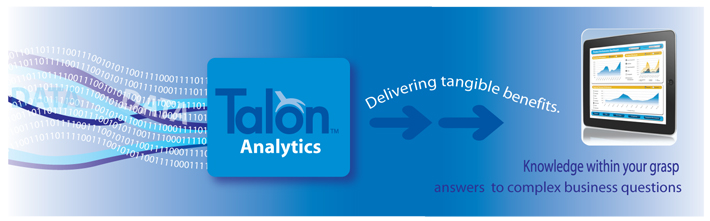
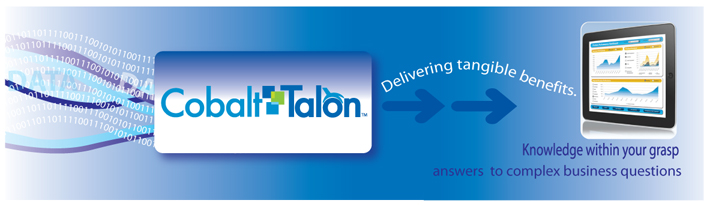
last minute chages

diff --git a/css/style.css b/css/style.css
@@ -1735,26 +1735,32 @@ ul.acc_text {
 .side_slider a {
   text-decoration: none;
 }
+/* line 534, ../src/style.scss */
+.side_slider a span {
+  font-size: 15px;
+  color: #1a9fff;
+  font-style: italic;
+}
 
-/* line 539, ../src/style.scss */
+/* line 544, ../src/style.scss */
 .action {
   border-top: 1px solid #666;
   margin-top: 25px;
   padding-top: 15px;
   text-align: center;
 }
-/* line 544, ../src/style.scss */
+/* line 549, ../src/style.scss */
 .action img {
   border: 1px solid #313131;
   width: 156px;
 }
-/* line 548, ../src/style.scss */
+/* line 553, ../src/style.scss */
 .action h4 {
   color: #0068b3;
   font-size: 1.3em;
 }
 
-/* line 553, ../src/style.scss */
+/* line 558, ../src/style.scss */
 .fancy {
   text-align: center;
   -moz-border-radius: 5px;
@@ -1828,7 +1834,7 @@ ul.acc_text {
   color: #222222;
 }
 
-/* line 557, ../src/style.scss */
+/* line 562, ../src/style.scss */
 .fancy-blue {
   text-align: center;
   -moz-border-radius: 5px;
@@ -1904,45 +1910,45 @@ ul.acc_text {
   color: white;
 }
 
-/* line 567, ../src/style.scss */
+/* line 572, ../src/style.scss */
 .products h3 {
   border-bottom: 1px solid #ccc;
   padding-bottom: 3px;
 }
-/* line 571, ../src/style.scss */
+/* line 576, ../src/style.scss */
 .products .method {
   float: right;
   margin-left: 15px;
 }
-/* line 577, ../src/style.scss */
+/* line 582, ../src/style.scss */
 .products .healthcare_payer .products_suite li {
   display: block;
   float: left;
   width: 36%;
   margin: 5px 0;
 }
-/* line 583, ../src/style.scss */
+/* line 588, ../src/style.scss */
 .products .healthcare_payer .products_suite li a {
   text-decoration: none;
   font-size: 14px;
 }
-/* line 587, ../src/style.scss */
+/* line 592, ../src/style.scss */
 .products .healthcare_payer .products_suite li img {
   float: left;
   margin-right: 15px;
 }
-/* line 595, ../src/style.scss */
+/* line 600, ../src/style.scss */
 .products .healthcare_payer h4 {
   clear: left;
 }
-/* line 597, ../src/style.scss */
+/* line 602, ../src/style.scss */
 .products .healthcare_payer h4 a {
   display: block;
   border-bottom: 1px solid #71cef5;
   width: 80%;
   padding-bottom: 5px;
 }
-/* line 603, ../src/style.scss */
+/* line 608, ../src/style.scss */
 .products .healthcare_payer h4 span {
   background: #0068b3;
   -moz-border-radius-topleft: 10px;
@@ -1961,19 +1967,19 @@ ul.acc_text {
   padding: 5px 15px;
 }
 
-/* line 615, ../src/style.scss */
+/* line 620, ../src/style.scss */
 .spacer {
   padding: 5px;
   clear: both;
 }
 
-/* line 620, ../src/style.scss */
+/* line 625, ../src/style.scss */
 .talon_key {
   float: right;
-  width: 150px;
+  width: 210px;
 }
 
-/* line 625, ../src/style.scss */
+/* line 630, ../src/style.scss */
 .customer_benefits_micro {
   float: right;
   width: 210px;
@@ -1981,7 +1987,7 @@ ul.acc_text {
   font-style: italic;
 }
 
-/* line 632, ../src/style.scss */
+/* line 637, ../src/style.scss */
 .text_with_image .acc_text {
-  width: 340px;
+  width: 320px;
 }

diff --git a/src/style.scss b/src/style.scss
@@ -531,6 +531,11 @@ ul.acc_text {
 
 .side_slider {
   a {
+    span {
+      font-size: 15px;
+      color: lighten($blue, 20%);
+      font-style: italic;
+    }
     text-decoration: none;
   }
   margin-bottom: 0;
@@ -619,7 +624,7 @@ ul.acc_text {
 
 .talon_key {
   float: right;
-  width: 150px;
+  width: 210px;
 }
 
 .customer_benefits_micro {
@@ -630,6 +635,6 @@ ul.acc_text {
 }
 .text_with_image {
   .acc_text {
-    width: 340px;
+    width: 320px;
   }
 }

diff --git a/pages/services.php b/pages/services.php
@@ -50,13 +50,13 @@
            		<img class="main_image" src="/images/services/main.jpg" />
               		<h2>Overview</h2>
               			<p>Now more than ever healthcare payers and providers are faced with complex business opportunities and regulatory challenges that can no longer be solved without effective analytics. Cobalt Ventures and Talon Analytics have partnered to  bring the strength of healthcare management together with healthcare analytics to form Cobalt Talon. Using the Cobalt Talon Knowledge for Healthcare, along with Cobalt business modeling, your company will be able to address these new opportunities as well as serve the traditional reporting and analytic needs required in the industry. </p>
-                    <p><strong>The Talon Knowledge Engine&#8482; for Healthcare</strong> solution covers all of the basics and integrates advanced, proprietary predictive analytic models and methodologies that enable companies to solve the most pressing industry-specific business problems. The end result is significant, tangible economic benefit and ultimately a strategic competitive advantage for Cobalt Talon customers. </p>
+                    <p><strong>The Cobalt Talon Knowledge Engine&#8482; for Healthcare</strong> solution covers all of the basics and integrates advanced, proprietary predictive analytic models and methodologies that enable companies to solve the most pressing industry-specific business problems. The end result is significant, tangible economic benefit and ultimately a strategic competitive advantage for Cobalt Talon customers. </p>
              		<h3><a href="/services/how-it-works">TKE: How it works</a></h3>
                 <!--Recipe-->
                 <div class="text_with_image">
                   <h2>Recipe for a Successful Analytic Product</h2>
                   <div class="talon_key">
-                    <!-- <img src="/images/services/talon_key.jpg" /> -->
+                    <img src="/images/services/talon_key.jpg" />
                   </div>
                   <ul class="acc_class">
                     <li><strong><a class="acc_link" href="#">Top-notch People</a></strong></li>

diff --git a/pages/products.php b/pages/products.php
@@ -27,7 +27,7 @@ include '../partials/_products_menu.php';
   <img class="main_image" src="/images/products/data.jpg" />
   <h1>Products</h1>
   <h2><a href="/products/healthcare">Cobalt Talon Knowledge Engine&#8482; - For Healthcare</a></h2>
-  <p>The product that Cobalt Talon offers is a fully-integrated, best-in-class, and economically efficient analytic platformconsisting of an industry-leading data warehousing appliance and an equivalent level business intelligence application…all delivered as a managed service and provided on a <em>pay-as-you-go</em> basis. Named <a href="/products/healthcare"><strong>Cobalt Talon Knowledge Engine&#8482; - For Healthcare</strong></a>, the solution covers all of the basics and integrates advanced, proprietary predictive analytic models and methodologies that enable companies to solve the most pressing industry-specific business problems. The end result is significant, tangible economic benefit and ultimately a strategic competitive advantage for Cobalt Talon customers. </p>
+  <p>The product that Cobalt Talon offers is a fully-integrated, best-in-class, and economically efficient analytic platform consisting of an industry-leading data warehousing appliance and an equivalent level business intelligence application…all delivered as a managed service and provided on a <em>pay-as-you-go</em> basis. Named <a href="/products/healthcare"><strong>Cobalt Talon Knowledge Engine&#8482; - For Healthcare</strong></a>, the solution covers all of the basics and integrates advanced, proprietary predictive analytic models and methodologies that enable companies to solve the most pressing industry-specific business problems. The end result is significant, tangible economic benefit and ultimately a strategic competitive advantage for Cobalt Talon customers. </p>
   <p>* Note the TKE is available for other markets through <a href="http://www.talonanalytics.com">Talon Analytics</a></p>
   <!--Healthcare Insurance Payer Module-->
   <div class="healthcare_payer">

diff --git a/pages/company.php b/pages/company.php
@@ -44,26 +44,32 @@
               <div class="half_cols">
                 <div class="half_col">
                 <ul>
+                  <li>American Express</li>
                   <li>American Airlines</li> 
-                  <li>Sabre&nbsp; Travelocity</li> 
-                  <li>BMC Software</li> 
-                  <li>McAfee</li> 
-                  <li>GE (NBCUniversal)</li>
-                  <li>Blue Cross Blue Shield of Kansas City</li> 
+                  <li>AmerisourceBergen</li>
                   <li>BestBuy</li> 
-                  <li>The Walt Disney Company</li> 
+                  <li>Blue Cross Blue Shield of Kansas City</li> 
+                  <li>BMC Software</li> 
+                  <li>Comcast</li> 
+                  <li>CVS Caremark</li>
+                  <li>Experian</li> 
+                  <li>GE (NBCUniversal)</li>
+                  <li>Google</li> 
                 </ul>
                 </div>
                 <div class="half_col">
                   <ul>
-                  <li>Ticketmaster</li> 
-                  <li>AmerisourceBergen</li>  
-                  <li>American Express</li>
-                  <li>Google</li> 
+                  <li>Macys</li> 
+                  <li>Marriott</li> 
+                  <li>McAfee</li> 
+                  <li>ORACLE Corporation</li> 
                   <li>Petsmart</li>
+                  <li>Sabre Travelocity</li> 
+                  <li>Sungard Inc</li> 
+                  <li>Ticketmaster</li> 
+                  <li>(The) Walt Disney Company</li> 
+                  <li>Wells Fargo</li>  
                   <li>20th Century Fox</li>  
-                  <li>Experian</li> 
-                  <li>CVS Caremark</li>
                 </ul>
               </div>
             </div>

diff --git a/pages/customers.php b/pages/customers.php
@@ -33,7 +33,19 @@
             <img class="main_image" src="/images/customer_main.jpg" />
             <h1>Customers</h1>
             <h2 id="testimonials">Testimonials:  What our customers are saying:</h2>
-            <p>Coming Soon.</p>
+            <p><div class="thumb_right"><img src="../images/layout/bcbska.jpg" width="215" height="53" alt="Blue Cross Blue Shield"></div></p>
+            <p>&quot;The Cobalt Cobalt Talon analytic solution provides the platform to help companies
+              shape the future. Strong analytic capabilities are imperative to the future
+              success of our company and our industry. Now more than ever we must utilize
+              our data as a powerful strategic asset. The Cobalt Cobalt Talon analytic solution
+              offers end-to-end enhanced intelligence critical to evaluating and
+              predicting a population's health risk, ultimately determining the biggest
+              health care cost drivers, both now and into the future. This knowledge,
+              translated down to the customer level, enables us to better 'know' our
+              customers, a competitive advantage in the market. The results are improved
+              patient outcomes, lower costs and customer retention.&quot;</p>
+            <p><em>Source: David Gentile, President and Chief Executive Officer, Blue Cross and Blue
+                Shield of Kansas City </em></p>
             <h2 id="case-studies">Case Studies:&nbsp;</h2>
             <p>Coming Soon.</p>
           </div>

diff --git a/index.php b/index.php
@@ -28,8 +28,8 @@
             <div id="events">
               <h4 class="side_slider"><a href="/services">Talon Knowledge Engine &trade;</a></h4>
               <p>The platform is populated with proprietary, industry-specific data models which include data enhancement processes that enable advanced features such as predictive analytics.  <a href="/services">Read More</a></p>
-              <h4 class="side_slider"><a href="/products">Cobalt Talon: <br>Knowledge Engine for Healthcare</a></h4>
-              <p>Knowledge Engine for healthcare enables healthcare payers with capabilities such as cost and quality of care analytics, predictive risk management, “propensity to buy” models, provider performance monitoring, and much, much more.   <a href="/products">Read More</a></p>
+              <h4 class="side_slider"><a href="/products">Cobalt Talon: <br><span>Knowledge Engine for Healthcare</span></a></h4>
+              <p>The Cobalt Talon solution enables healthcare payers with capabilities such as cost and quality of care analytics, predictive risk management, “propensity to buy” models, provider performance monitoring, and much, much more.   <a href="/products">Read More</a></p>
             </div>
           </div>
           <div id="break"></div>
